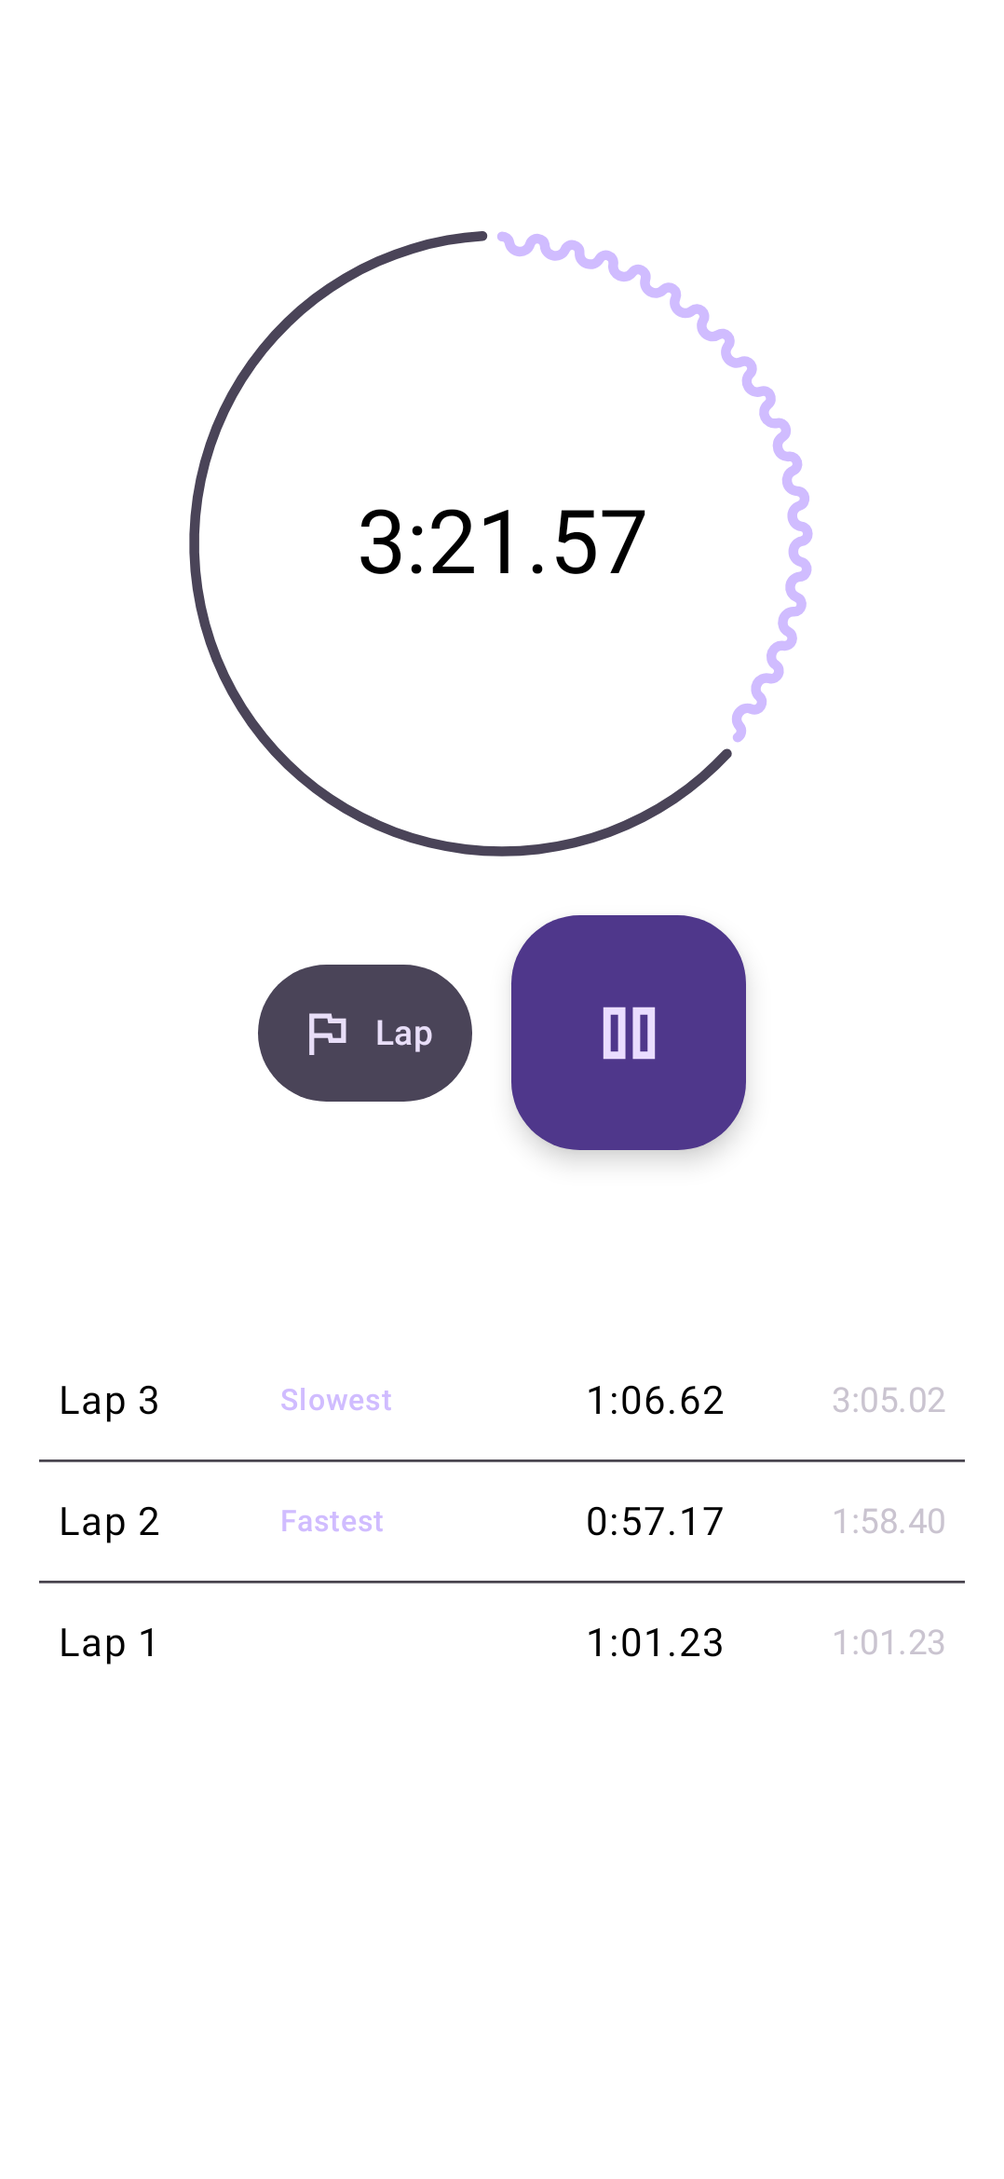
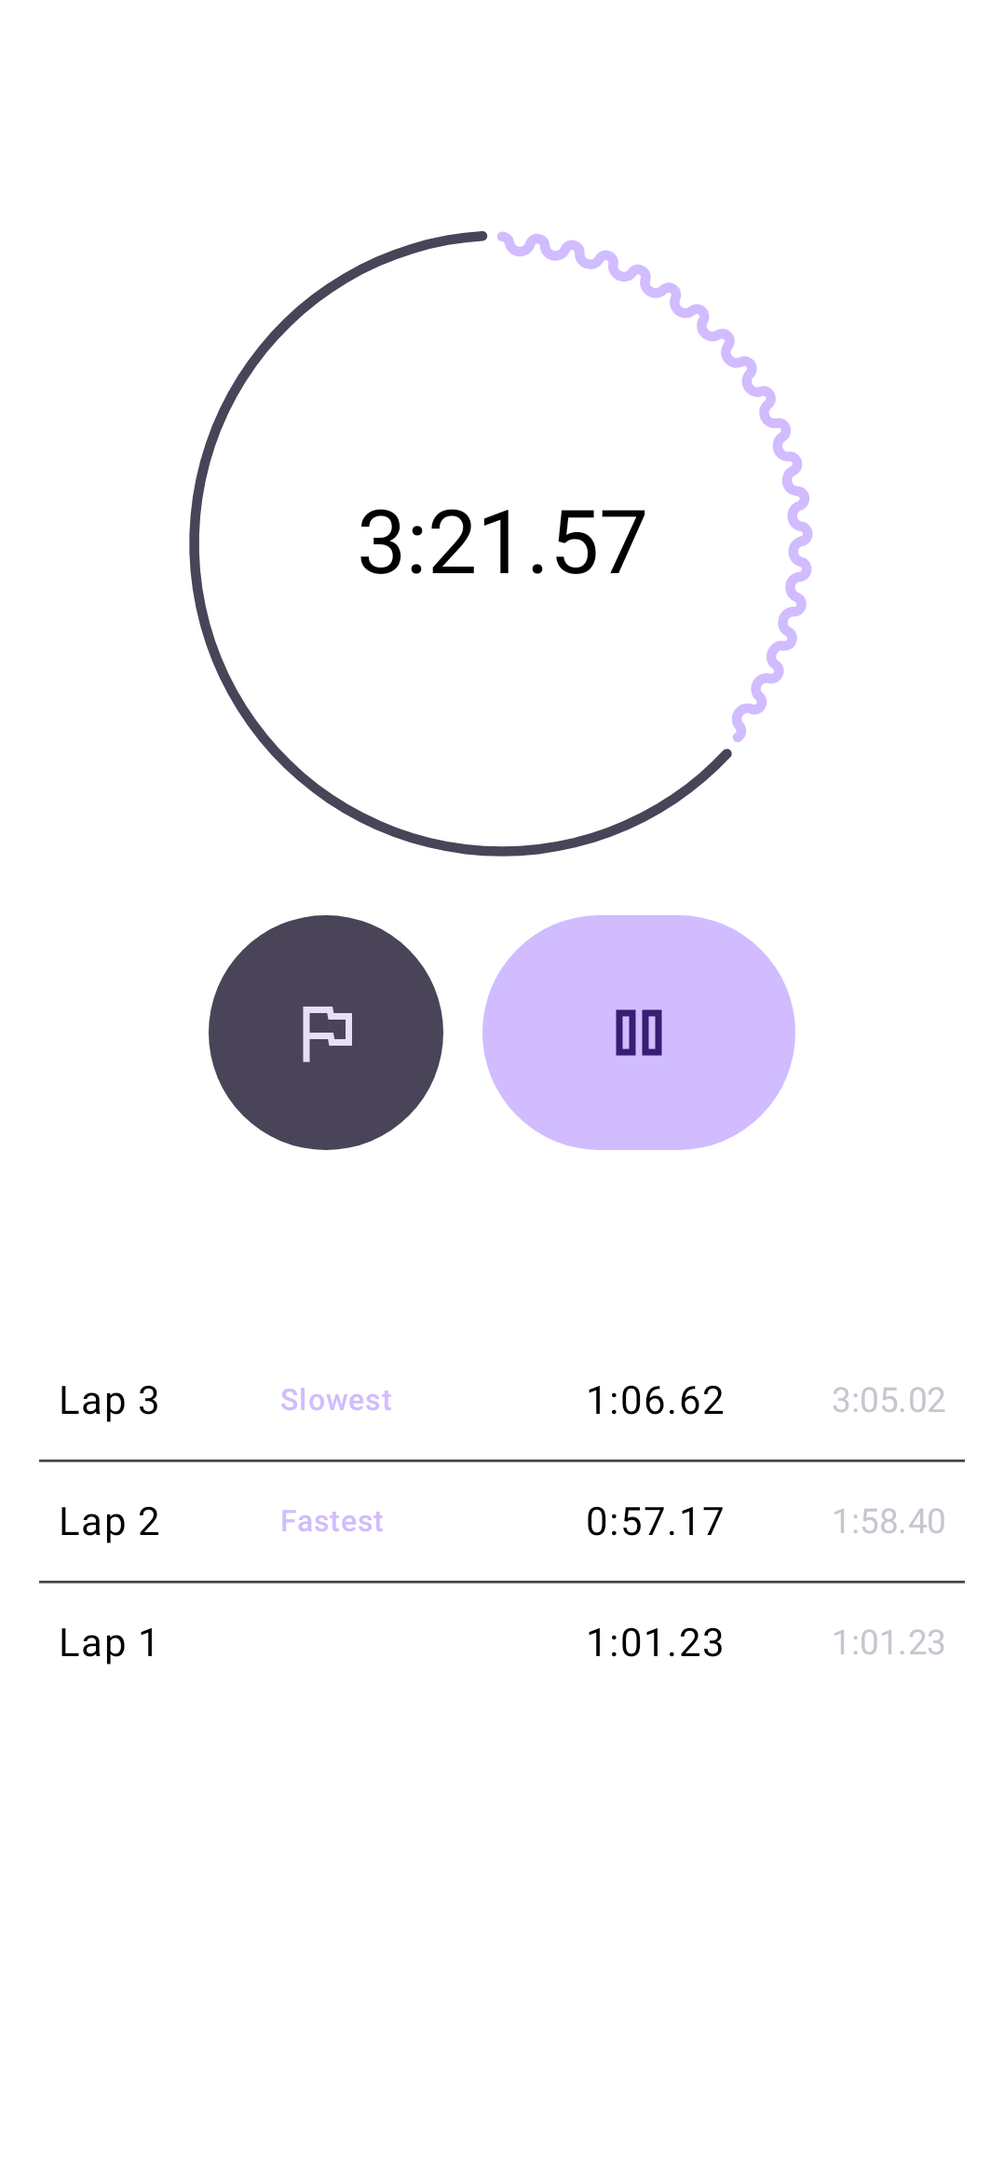
Clock 0.2.1: undo snackbar timeout, timer labels, stopwatch buttons, Live Updates (#28)
- The "Alarm deleted" and "City removed" snackbars stayed forever:
  Material 3 makes a snackbar with an action indefinite by default.
  They now use SnackbarDuration.Long.
- Timers can be named: tap the card title ("Add label").
- Stopwatch Lap/Reset and Start/Pause are a matched pair of large
  Expressive icon buttons instead of a pill next to a square FAB.
- Timer and stopwatch notifications now show on the lock screen: new
  default-importance channels without sound (silent ones are hidden on
  the lock screen), public visibility, and Live Update promotion on
  Android 16 QPR1+.

Changed region(s): [[0.1837, 0.4059, 0.7959, 0.5308]]

diff --git a/apps/clock/src/main/kotlin/io/github/michaelmassoni/tessera/clock/ringing/ClockNotifications.kt b/apps/clock/src/main/kotlin/io/github/michaelmassoni/tessera/clock/ringing/ClockNotifications.kt
@@ -6,6 +6,7 @@ import android.app.NotificationManager
 import android.app.PendingIntent
 import android.content.Context
 import android.content.Intent
+import android.os.Build
 import android.text.format.DateFormat
 import io.github.michaelmassoni.tessera.clock.MainActivity
 import io.github.michaelmassoni.tessera.clock.R
@@ -21,6 +22,9 @@ class ClockNotifications(
     private val manager = context.getSystemService(NotificationManager::class.java)
 
     fun createChannels() {
+        // 0.1 used silent (low importance) channels, which the lock screen hides by default.
+        // Importance can't be raised on an existing channel, so they moved to new ids.
+        LEGACY_CHANNELS.forEach(manager::deleteNotificationChannel)
         manager.createNotificationChannels(
             listOf(
                 NotificationChannel(
@@ -33,16 +37,8 @@ class ClockNotifications(
                     enableVibration(false)
                     lockscreenVisibility = Notification.VISIBILITY_PUBLIC
                 },
-                NotificationChannel(
-                    CHANNEL_TIMERS,
-                    context.getString(R.string.channel_timers),
-                    NotificationManager.IMPORTANCE_LOW,
-                ),
-                NotificationChannel(
-                    CHANNEL_STOPWATCH,
-                    context.getString(R.string.channel_stopwatch),
-                    NotificationManager.IMPORTANCE_LOW,
-                ),
+                liveChannel(CHANNEL_TIMERS, R.string.channel_timers),
+                liveChannel(CHANNEL_STOPWATCH, R.string.channel_stopwatch),
                 NotificationChannel(
                     CHANNEL_MISSED,
                     context.getString(R.string.channel_missed),
@@ -50,6 +46,31 @@ class ClockNotifications(
                 ),
             ),
         )
+    }
+
+    /**
+     * Timers and the stopwatch: default importance so they show on the lock screen (silent
+     * notifications don't, by default), but without sound or vibration. Public, since a countdown
+     * isn't private.
+     */
+    private fun liveChannel(
+        id: String,
+        name: Int,
+    ) = NotificationChannel(id, context.getString(name), NotificationManager.IMPORTANCE_DEFAULT).apply {
+        setSound(null, null)
+        enableVibration(false)
+        setShowBadge(false)
+        lockscreenVisibility = Notification.VISIBILITY_PUBLIC
+    }
+
+    /**
+     * Android 16 QPR1+: asks for a Live Update, which shows as a chip in the status bar and stays near
+     * the top of the lock screen. The system decides; the notification works the same either way.
+     */
+    private fun Notification.Builder.live(): Notification.Builder {
+        setVisibility(Notification.VISIBILITY_PUBLIC)
+        if (Build.VERSION.SDK_INT_FULL >= Build.VERSION_CODES_FULL.BAKLAVA_1) setRequestPromotedOngoing(true)
+        return this
     }
 
     fun canPost(): Boolean = manager.areNotificationsEnabled()
@@ -161,7 +182,7 @@ class ClockNotifications(
                     .addAction(broadcast(R.string.action_resume, ClockReceiver.ACTION_TIMER_RESUME, timer.id))
             }
             builder.addAction(broadcast(R.string.action_stop, ClockReceiver.ACTION_TIMER_STOP, timer.id))
-            manager.notify(TIMER_NOTIFICATION_BASE + timer.id, builder.build())
+            manager.notify(TIMER_NOTIFICATION_BASE + timer.id, builder.live().build())
         }
     }
 
@@ -197,7 +218,7 @@ class ClockNotifications(
                 .addAction(broadcast(R.string.action_resume, ClockReceiver.ACTION_STOPWATCH_RESUME, 0))
                 .addAction(broadcast(R.string.action_reset, ClockReceiver.ACTION_STOPWATCH_RESET, 0))
         }
-        manager.notify(STOPWATCH_NOTIFICATION_ID, builder.build())
+        manager.notify(STOPWATCH_NOTIFICATION_ID, builder.live().build())
     }
 
     private fun formatTime(
@@ -254,8 +275,9 @@ class ClockNotifications(
 
     companion object {
         const val CHANNEL_RINGING = "ringing"
-        const val CHANNEL_TIMERS = "timers"
-        const val CHANNEL_STOPWATCH = "stopwatch"
+        const val CHANNEL_TIMERS = "timers_live"
+        const val CHANNEL_STOPWATCH = "stopwatch_live"
+        private val LEGACY_CHANNELS = listOf("timers", "stopwatch")
         const val CHANNEL_MISSED = "missed"
 
         const val RINGING_NOTIFICATION_ID = 1

diff --git a/apps/clock/src/main/kotlin/io/github/michaelmassoni/tessera/clock/ui/TimerScreen.kt b/apps/clock/src/main/kotlin/io/github/michaelmassoni/tessera/clock/ui/TimerScreen.kt
@@ -1,5 +1,6 @@
 package io.github.michaelmassoni.tessera.clock.ui
 
+import androidx.compose.foundation.clickable
 import androidx.compose.foundation.layout.Arrangement
 import androidx.compose.foundation.layout.Box
 import androidx.compose.foundation.layout.Column
@@ -31,8 +32,13 @@ import androidx.compose.material3.Text
 import androidx.compose.material3.TextButton
 import androidx.compose.runtime.Composable
 import androidx.compose.runtime.getValue
+import androidx.compose.runtime.mutableStateOf
+import androidx.compose.runtime.saveable.rememberSaveable
+import androidx.compose.runtime.setValue
 import androidx.compose.ui.Alignment
 import androidx.compose.ui.Modifier
+import androidx.compose.ui.draw.clip
+import androidx.compose.ui.graphics.Color
 import androidx.compose.ui.res.painterResource
 import androidx.compose.ui.res.pluralStringResource
 import androidx.compose.ui.res.stringResource
@@ -57,6 +63,11 @@ interface TimerActions {
     fun onAddMinute(id: Int)
 
     fun onDelete(id: Int)
+
+    fun onLabel(
+        id: Int,
+        label: String,
+    )
 }
 
 /** Running and paused timers. [elapsedNow] ticks from the caller while the tab is visible. */
@@ -95,12 +106,37 @@ private fun TimerCard(
         shape = MaterialTheme.shapes.extraLarge,
     ) {
         Column(Modifier.fillMaxWidth().padding(20.dp), horizontalAlignment = Alignment.CenterHorizontally) {
+            var editingLabel by rememberSaveable { mutableStateOf(false) }
             Row(Modifier.fillMaxWidth(), verticalAlignment = Alignment.CenterVertically) {
-                Text(
-                    timer.label.ifEmpty { DurationFormat.timer(timer.durationMillis) },
-                    style = MaterialTheme.typography.titleMedium,
-                    modifier = Modifier.weight(1f),
-                )
+                // Tap the title to name the timer; the original duration stays underneath.
+                Column(
+                    Modifier
+                        .weight(1f)
+                        .clip(MaterialTheme.shapes.small)
+                        .clickable(onClickLabel = stringResource(R.string.timer_edit_label)) { editingLabel = true }
+                        .padding(vertical = 4.dp),
+                ) {
+                    Text(
+                        timer.label.ifEmpty { stringResource(R.string.alarm_add_label) },
+                        style = MaterialTheme.typography.titleMedium,
+                        color = if (timer.label.isEmpty()) MaterialTheme.colorScheme.onSurfaceVariant else Color.Unspecified,
+                    )
+                    Text(
+                        DurationFormat.timer(timer.durationMillis),
+                        style = MaterialTheme.typography.bodySmall,
+                        color = MaterialTheme.colorScheme.onSurfaceVariant,
+                    )
+                }
+                if (editingLabel) {
+                    LabelDialog(
+                        initial = timer.label,
+                        onDismiss = { editingLabel = false },
+                        onConfirm = {
+                            editingLabel = false
+                            actions.onLabel(timer.id, it)
+                        },
+                    )
+                }
                 IconButton(onClick = { actions.onDelete(timer.id) }) {
                     Icon(
                         painterResource(DesignR.drawable.ic_close),
@@ -249,6 +285,11 @@ private object NoTimerActions : TimerActions {
     override fun onReset(id: Int) = Unit
 
     override fun onAddMinute(id: Int) = Unit
+
+    override fun onLabel(
+        id: Int,
+        label: String,
+    ) = Unit
 
     override fun onDelete(id: Int) = Unit
 }

diff --git a/apps/clock/src/main/kotlin/io/github/michaelmassoni/tessera/clock/ui/StopwatchScreen.kt b/apps/clock/src/main/kotlin/io/github/michaelmassoni/tessera/clock/ui/StopwatchScreen.kt
@@ -17,9 +17,12 @@ import androidx.compose.foundation.lazy.itemsIndexed
 import androidx.compose.material3.ButtonDefaults
 import androidx.compose.material3.CircularWavyProgressIndicator
 import androidx.compose.material3.ExperimentalMaterial3ExpressiveApi
+import androidx.compose.material3.FilledIconButton
 import androidx.compose.material3.FilledTonalButton
+import androidx.compose.material3.FilledTonalIconButton
 import androidx.compose.material3.HorizontalDivider
 import androidx.compose.material3.Icon
+import androidx.compose.material3.IconButtonDefaults
 import androidx.compose.material3.LargeFloatingActionButton
 import androidx.compose.material3.MaterialTheme
 import androidx.compose.material3.Text
@@ -74,24 +77,31 @@ fun StopwatchScreen(
                     verticalAlignment = Alignment.CenterVertically,
                     modifier = Modifier.padding(top = 24.dp),
                 ) {
-                    FilledTonalButton(
+                    // A matched pair: same height and shape family, round at rest and squaring
+                    // when pressed. The primary one is wide.
+                    FilledTonalIconButton(
                         onClick = if (stopwatch.running) actions::onLap else actions::onReset,
                         enabled = !stopwatch.isReset,
-                        shapes = ButtonDefaults.shapes(),
-                        modifier = Modifier.height(56.dp),
+                        shapes = IconButtonDefaults.shapes(),
+                        modifier = Modifier.size(IconButtonDefaults.largeContainerSize()),
                     ) {
                         Icon(
                             painterResource(
                                 if (stopwatch.running) DesignR.drawable.ic_flag else DesignR.drawable.ic_restart_alt,
                             ),
-                            contentDescription = null,
-                        )
-                        Text(
-                            stringResource(if (stopwatch.running) R.string.action_lap else R.string.action_reset),
-                            modifier = Modifier.padding(start = 8.dp),
+                            contentDescription =
+                                stringResource(if (stopwatch.running) R.string.action_lap else R.string.action_reset),
+                            modifier = Modifier.size(IconButtonDefaults.largeIconSize),
                         )
                     }
-                    LargeFloatingActionButton(onClick = if (stopwatch.running) actions::onPause else actions::onStart) {
+                    FilledIconButton(
+                        onClick = if (stopwatch.running) actions::onPause else actions::onStart,
+                        shapes = IconButtonDefaults.shapes(),
+                        modifier =
+                            Modifier.size(
+                                IconButtonDefaults.largeContainerSize(IconButtonDefaults.IconButtonWidthOption.Wide),
+                            ),
+                    ) {
                         Icon(
                             painterResource(
                                 if (stopwatch.running) DesignR.drawable.ic_pause else DesignR.drawable.ic_play_arrow,
@@ -100,7 +110,7 @@ fun StopwatchScreen(
                                 stringResource(
                                     if (stopwatch.running) R.string.action_pause else R.string.action_start,
                                 ),
-                            modifier = Modifier.size(36.dp),
+                            modifier = Modifier.size(IconButtonDefaults.largeIconSize),
                         )
                     }
                 }

diff --git a/apps/clock/src/main/kotlin/io/github/michaelmassoni/tessera/clock/ui/ClockRoot.kt b/apps/clock/src/main/kotlin/io/github/michaelmassoni/tessera/clock/ui/ClockRoot.kt
@@ -25,6 +25,7 @@ import androidx.compose.material3.MaterialTheme
 import androidx.compose.material3.MediumFloatingActionButton
 import androidx.compose.material3.RadioButton
 import androidx.compose.material3.Scaffold
+import androidx.compose.material3.SnackbarDuration
 import androidx.compose.material3.SnackbarHost
 import androidx.compose.material3.SnackbarHostState
 import androidx.compose.material3.SnackbarResult
@@ -243,6 +244,11 @@ fun ClockRoot(
 
                                     override fun onAddMinute(id: Int) = viewModel.addMinute(id)
 
+                                    override fun onLabel(
+                                        id: Int,
+                                        label: String,
+                                    ) = viewModel.setTimerLabel(id, label)
+
                                     override fun onDelete(id: Int) = viewModel.deleteTimer(id)
                                 },
                             contentPadding = listPadding,
@@ -343,12 +349,22 @@ private fun EventSnackbars(
                 }
 
                 is ClockEvent.AlarmDeleted -> {
-                    val result = snackbar.showSnackbar(resources.getString(R.string.alarm_deleted), actionLabel = undo)
+                    val result =
+                        snackbar.showSnackbar(
+                            resources.getString(R.string.alarm_deleted),
+                            actionLabel = undo,
+                            duration = SnackbarDuration.Long,
+                        )
                     if (result == SnackbarResult.ActionPerformed) onUndoDelete(event.alarm)
                 }
 
                 is ClockEvent.CityRemoved -> {
-                    val result = snackbar.showSnackbar(resources.getString(R.string.city_removed), actionLabel = undo)
+                    val result =
+                        snackbar.showSnackbar(
+                            resources.getString(R.string.city_removed),
+                            actionLabel = undo,
+                            duration = SnackbarDuration.Long,
+                        )
                     if (result == SnackbarResult.ActionPerformed) onUndoRemoveCity(event.zoneId, event.index)
                 }
             }

diff --git a/apps/clock/src/main/kotlin/io/github/michaelmassoni/tessera/clock/ui/ClockViewModel.kt b/apps/clock/src/main/kotlin/io/github/michaelmassoni/tessera/clock/ui/ClockViewModel.kt
@@ -114,6 +114,11 @@ class ClockViewModel(
 
     fun addMinute(id: Int) = background { graph.timers.addMinute(id) }
 
+    fun setTimerLabel(
+        id: Int,
+        label: String,
+    ) = background { graph.timers.setLabel(id, label) }
+
     fun deleteTimer(id: Int) = background { graph.timers.delete(id) }
 
     // ------------------------------------------------------------------ stopwatch

diff --git a/apps/clock/src/main/kotlin/io/github/michaelmassoni/tessera/clock/timer/TimerController.kt b/apps/clock/src/main/kotlin/io/github/michaelmassoni/tessera/clock/timer/TimerController.kt
@@ -50,6 +50,11 @@ class TimerController(
 
     fun reset(id: Int) = change(id) { it.reset() }
 
+    fun setLabel(
+        id: Int,
+        label: String,
+    ) = change(id) { it.copy(label = label.trim()) }
+
     fun addMinute(id: Int) = change(id) { it.addMinute(time.elapsedRealtime(), time.currentTimeMillis()) }
 
     fun expire(id: Int): ClockTimer? = change(id) { it.expire() }

diff --git a/apps/clock/src/main/kotlin/io/github/michaelmassoni/tessera/clock/ui/AlarmsScreen.kt b/apps/clock/src/main/kotlin/io/github/michaelmassoni/tessera/clock/ui/AlarmsScreen.kt
@@ -437,7 +437,7 @@ fun TimePickerDialog(
 }
 
 @Composable
-private fun LabelDialog(
+internal fun LabelDialog(
     initial: String,
     onDismiss: () -> Unit,
     onConfirm: (String) -> Unit,

diff --git a/docs/clock.md b/docs/clock.md
@@ -30,7 +30,8 @@ grid (two or more columns).
   - **Sound:** the system ringtone picker for alarm sounds, with "Default" and "Silent" options.
     No storage permission is needed.
   - **Vibrate.**
-  - **Delete**, with an undo snackbar.
+  - **Delete**, with an undo snackbar that times out (`SnackbarDuration.Long`; with an action,
+    Material 3 otherwise defaults to indefinite).
 - **Adding an alarm:** a floating action button opens the Material 3 time picker (dial or
   keyboard input). New alarms are enabled and don't repeat.
 - **Feedback:** enabling an alarm, or changing its time, shows a snackbar such as "Alarm set
@@ -90,10 +91,12 @@ grid (two or more columns).
   Start, then add more timers with the floating action button.
 - **Running timers:** shown as cards, each with a `CircularWavyProgressIndicator` (Expressive),
   the remaining time, its label, Pause/Resume, Reset, +1:00 and Delete.
+- **Labels:** tap the title ("Add label" until set) to name a timer. The original duration shows
+  under it. The name is used in the notification and on the "Time's up" screen.
 - **Scheduling:** an exact alarm on `ELAPSED_REALTIME_WAKEUP` (`setExactAndAllowWhileIdle`) for
-  each running timer. No foreground service runs while a timer counts down. A low-priority
-  ongoing notification shows the countdown (`setChronometerCountDown`) with Pause and Stop
-  actions.
+  each running timer. No foreground service runs while a timer counts down. An ongoing
+  notification shows the countdown (`setChronometerCountDown`) with Pause and Stop actions. See
+  "Lock screen and Live Updates" below.
 - **Expiry:** the same `RingingService` and full-screen UI, showing "Time's up". The actions are
   Stop and +1:00. The display counts up past zero, as on the Pixel.
 - **State:** timers are persisted with both an elapsed-realtime deadline and a wall-clock
@@ -102,7 +105,8 @@ grid (two or more columns).
 
 ## Stopwatch
 
-- **Controls:** Start/Pause (floating action button), Lap and Reset.
+- **Controls:** a matched pair of large Expressive icon buttons: Lap/Reset (round, tonal) and
+  Start/Pause (wide, filled). Both are 96dp tall and morph shape when pressed.
 - **Display:** a large `h:mm:ss.cc` readout. The ring around it shows progress through the
   current minute.
 - **Laps:** a list with the lap number, lap time and total. The fastest and slowest laps are
@@ -112,6 +116,18 @@ grid (two or more columns).
   documented.
 - **While running:** an ongoing notification with a chronometer shows the elapsed time, with
   Pause and Lap actions.
+
+## Lock screen and Live Updates
+
+- Timer and stopwatch notifications use default-importance channels with no sound or vibration
+  (`timers_live`, `stopwatch_live`). Silent (low-importance) notifications are hidden from the lock
+  screen by default, which is why 0.2 moved off them. The old `timers` and `stopwatch` channels
+  are deleted.
+- They're `VISIBILITY_PUBLIC`: a countdown isn't private, so it shows even with "hide sensitive
+  content".
+- On Android 16 QPR1+ they request promotion (`setRequestPromotedOngoing`, with
+  `POST_PROMOTED_NOTIFICATIONS`). The system then shows them as Live Updates: a status bar chip and
+  near the top of the lock screen. The user can turn this off per app.
 
 ## World clock
 
@@ -139,6 +155,7 @@ grid (two or more columns).
 |------------|-----|
 | `USE_EXACT_ALARM` (33+) / `SCHEDULE_EXACT_ALARM` (≤32) | Alarms and timers must fire at an exact time |
 | `POST_NOTIFICATIONS` | Ringing UI, timer countdown, missed alarms |
+| `POST_PROMOTED_NOTIFICATIONS` | Timer and stopwatch as Live Updates (Android 16 QPR1+; normal permission) |
 | `USE_FULL_SCREEN_INTENT` | Show the ringing alarm over the lock screen |
 | `FOREGROUND_SERVICE`, `FOREGROUND_SERVICE_SYSTEM_EXEMPTED` | Keep sound and vibration going while an alarm or timer rings |
 | `RECEIVE_BOOT_COMPLETED` | Reschedule alarms after a reboot |
